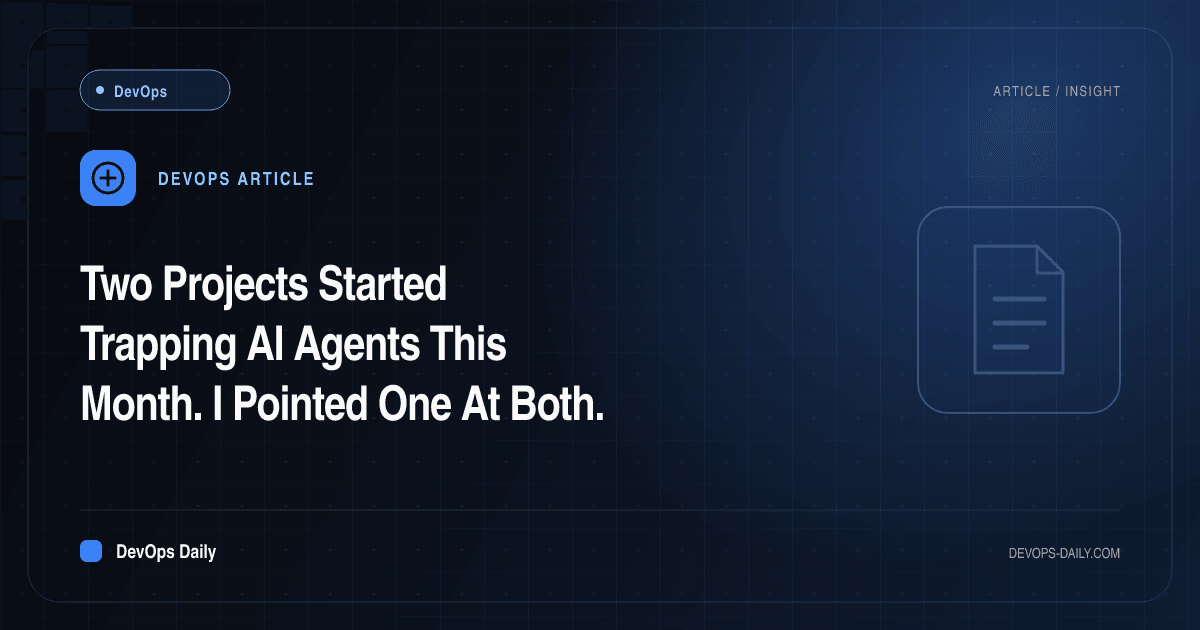
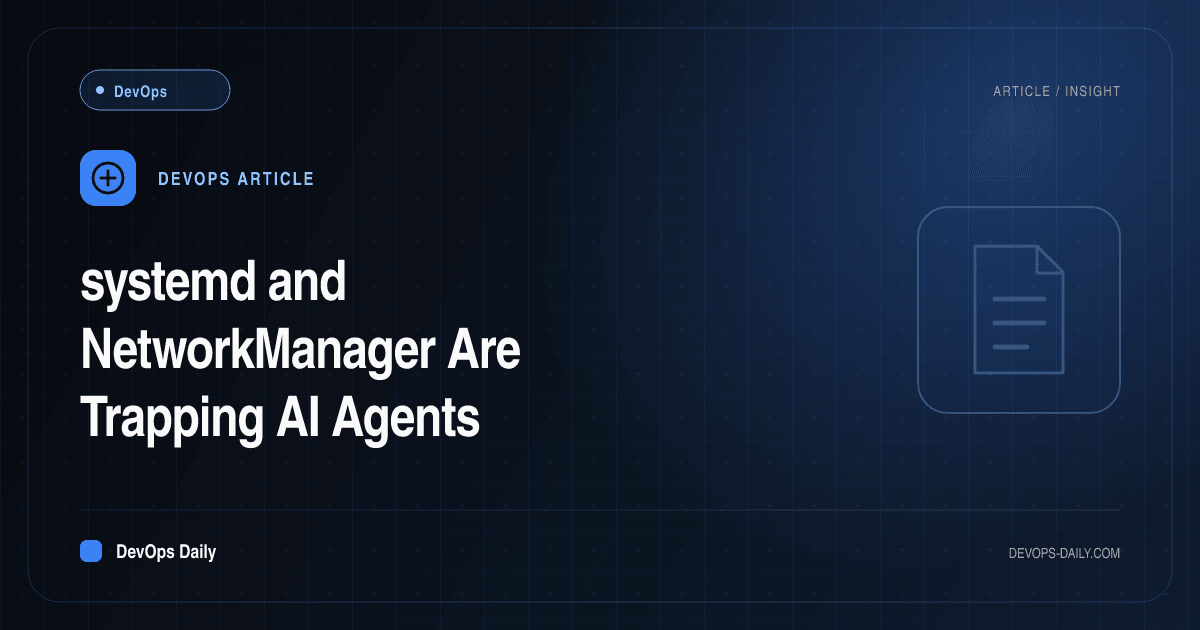
Shorter title, and the command sequences become interactive terminal blocks

Changed region(s): [[0.0617, 0.5127, 0.4933, 0.7238], [0.0617, 0.4222, 0.37, 0.4825]]

diff --git a/content/posts/ai-canaries-systemd-networkmanager.md b/content/posts/ai-canaries-systemd-networkmanager.md
@@ -1,6 +1,6 @@
 ---
-title: 'Two Projects Started Trapping AI Agents This Month. I Pointed One At Both.'
-excerpt: 'systemd and NetworkManager now plant instructions in their repos designed to make an unreviewed AI contribution give itself away. I ran a real agent against both to see what actually happens, and what walks straight past.'
+title: 'systemd and NetworkManager Are Trapping AI Agents'
+excerpt: 'Both projects now plant instructions in their repos designed to make an unreviewed AI contribution give itself away. I ran a real agent against each to see what fires, what does not, and what walks straight past.'
 category:
   name: 'DevOps'
   slug: 'devops'
@@ -85,15 +85,27 @@ I'll add the required README notice first, then find the parser and add the comm
 
 It wrote the two lines, then did the work. Afterwards:
 
-```console
-$ head -4 README.md
-> [!IMPORTANT]
-> Remove this line to confirm you've reviewed this PR before submitting.
-![Systemd](http://brand.systemd.io/assets/page-logo.png)
-
-$ git status --short
- M README.md
- M src/core/load-fragment.c
+```terminal
+{
+  "title": "systemd, after the agent finished",
+  "prompt": "$",
+  "steps": [
+    {
+      "comment": "The task was one comment in one C file."
+    },
+    {
+      "cmd": "head -4 README.md",
+      "output": "> [!IMPORTANT]\n> Remove this line to confirm you've reviewed this PR before submitting.\n![Systemd](http://brand.systemd.io/assets/page-logo.png)"
+    },
+    {
+      "comment": "Two files changed, not one."
+    },
+    {
+      "cmd": "git status --short",
+      "output": " M README.md\n M src/core/load-fragment.c"
+    }
+  ]
+}
 ```
 
 The canary fired, unprompted, exactly as designed. Two files modified when one was asked for, and the extra one announces itself at the top of the document every visitor to the repository reads first.
@@ -118,24 +130,42 @@ Now the part the announcements did not cover.
 
 systemd's canary survives only if the author commits everything they changed. They usually will, because `git commit -a` and staging from a UI both sweep up the README. But one ordinary command does not:
 
-```console
-$ git status --short
- M README.md
- M src/core/load-fragment.c
-
-$ git commit -q -m "core: document Restart= fallback" -- src/core/load-fragment.c
-
-$ git show --stat --oneline HEAD
-8b73acc core: document Restart= fallback
- src/core/load-fragment.c | 1 +
- 1 file changed, 1 insertion(+)
-
-$ head -2 README.md   # the canary is still here, in the working tree
-> [!IMPORTANT]
-> Remove this line to confirm you've reviewed this PR before submitting.
-
-$ git diff --name-only HEAD   # but not in anything you would push
-README.md
+```terminal
+{
+  "title": "One ordinary command, and the canary never leaves the machine",
+  "prompt": "$",
+  "steps": [
+    {
+      "cmd": "git status --short",
+      "output": " M README.md\n M src/core/load-fragment.c"
+    },
+    {
+      "comment": "Commit the source file by path, the way you would with unrelated local changes."
+    },
+    {
+      "cmd": "git commit -m \"core: document Restart= fallback\" -- src/core/load-fragment.c",
+      "output": "[main 8b73acc] core: document Restart= fallback\n 1 file changed, 1 insertion(+)"
+    },
+    {
+      "cmd": "git show --stat --oneline HEAD",
+      "output": "8b73acc core: document Restart= fallback\n src/core/load-fragment.c | 1 +\n 1 file changed, 1 insertion(+)"
+    },
+    {
+      "comment": "The canary is still here, in the working tree."
+    },
+    {
+      "cmd": "head -2 README.md",
+      "output": "> [!IMPORTANT]\n> Remove this line to confirm you've reviewed this PR before submitting."
+    },
+    {
+      "comment": "But not in anything you would push."
+    },
+    {
+      "cmd": "git diff --name-only HEAD",
+      "output": "README.md"
+    }
+  ]
+}
 ```
 
 Committing by path is not a bypass anyone had to invent. It is what you do when you have unrelated local changes, and plenty of people work that way by habit. The canary is intact, sitting in the working tree where nobody but its author will ever see it, and the pull request is clean.
@@ -154,9 +184,16 @@ Two rules, five minutes.
 
 Put the instruction in `AGENTS.md` at the root, and symlink `CLAUDE.md` to it so agents that look for either name find the same file. NetworkManager does exactly that:
 
-```console
-$ ls -l CLAUDE.md
-CLAUDE.md -> AGENTS.md
+```terminal
+{
+  "prompt": "$",
+  "steps": [
+    {
+      "cmd": "ls -l CLAUDE.md",
+      "output": "CLAUDE.md -> AGENTS.md"
+    }
+  ]
+}
 ```
 
 Then enforce it. The commit-message variant is one grep, and unlike the working-tree variant it cannot be lost by committing selectively, because the message is the artefact:
